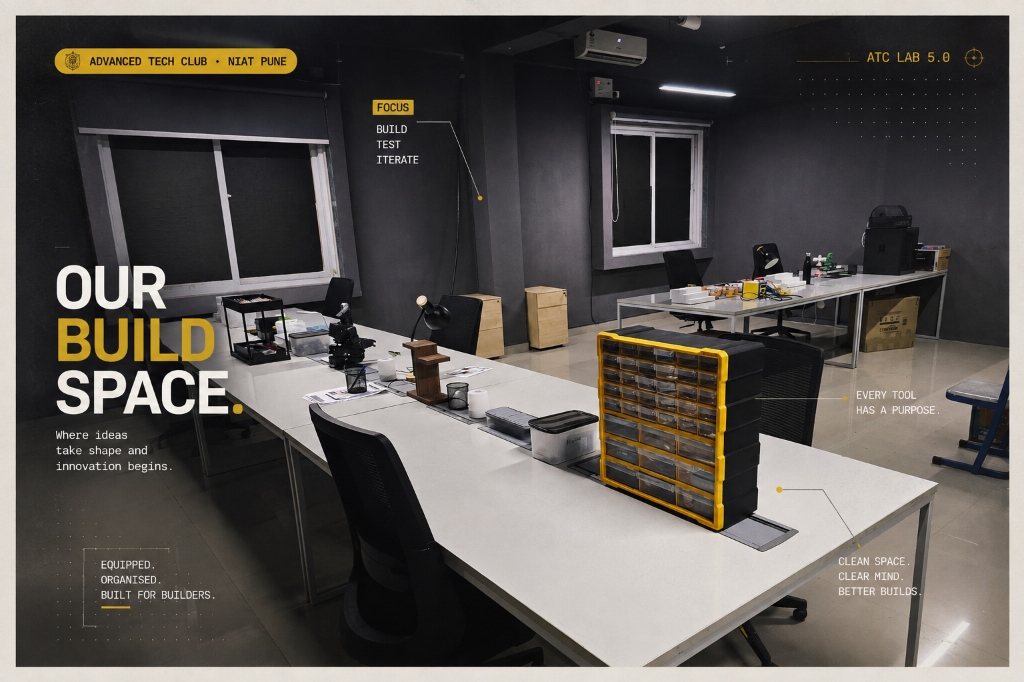
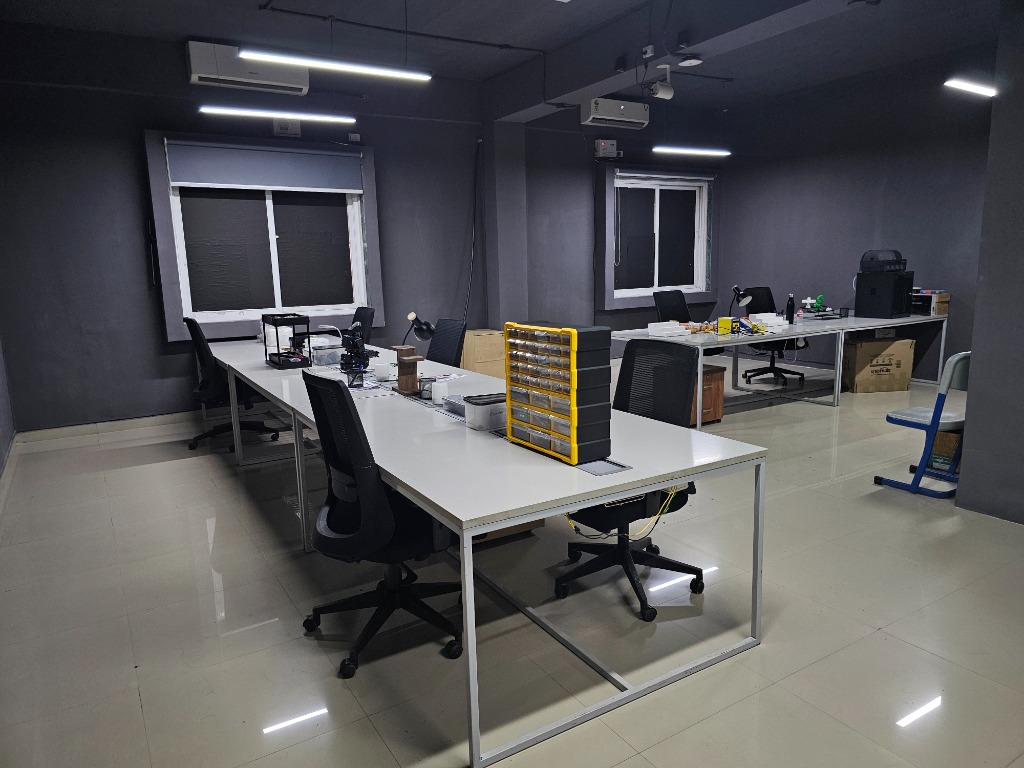
feat: make ATC 5.0 lab photo full background with theme-aligned content overlay

diff --git a/src/components/home/LabSection.tsx b/src/components/home/LabSection.tsx
@@ -1,137 +1,169 @@
 import React from 'react';
-import { ArrowUpRight, Cpu, Eye, Wifi, Wrench, Sparkles, MapPin, Maximize2 } from 'lucide-react';
+import { ArrowUpRight, Cpu, Eye, Wifi, Wrench, Sparkles, MapPin, CheckCircle2, Zap } from 'lucide-react';
 import { PlayfulButton } from '../ui/PlayfulButton';
-import { Link } from 'react-router-dom';
 
 export const LabSection: React.FC = () => {
   return (
-    <section className="relative bg-[#4834D4] py-20 text-white border-b-4 border-[#121316] overflow-hidden">
-      {/* Background Texture & Glows */}
-      <div className="absolute inset-0 bg-[radial-gradient(#ffffff1a_1px,transparent_1px)] [background-size:24px_24px] pointer-events-none" />
-      <div className="absolute top-0 right-0 w-96 h-96 bg-[#686de0]/30 rounded-full blur-3xl pointer-events-none" />
+    <section className="relative min-h-[640px] lg:min-h-[720px] text-white border-b-4 border-[#121316] overflow-hidden flex items-center">
+      {/* Full-bleed Background Image with Premium Multi-layer Overlays */}
+      <div className="absolute inset-0 z-0">
+        <img
+          src="/atc-lab-5.0.jpg"
+          alt="ATC Lab 5.0 Workspace Background"
+          className="w-full h-full object-cover object-center scale-105"
+        />
 
-      <div className="max-w-7xl mx-auto px-4 sm:px-6 lg:px-8 relative z-10">
-        <div className="grid lg:grid-cols-12 gap-10 lg:gap-12 items-center">
-          {/* Left Column: Heading, Status, Description & CTA */}
-          <div className="lg:col-span-5 space-y-6">
-            {/* Status Pill Badge */}
+        {/* Cinematic Gradient Overlays for High Legibility & Vibrant Theme Alignment */}
+        <div className="absolute inset-0 bg-gradient-to-r from-[#121316]/95 via-[#121316]/80 to-[#121316]/40" />
+        <div className="absolute inset-0 bg-gradient-to-t from-[#121316] via-transparent to-[#121316]/60" />
+        <div className="absolute inset-0 bg-[#301c80]/30 mix-blend-multiply" />
+        
+        {/* Playful Dot Grid Texture */}
+        <div className="absolute inset-0 bg-[radial-gradient(#ffffff18_1.5px,transparent_1.5px)] [background-size:24px_24px] pointer-events-none" />
+      </div>
+
+      <div className="max-w-7xl mx-auto px-4 sm:px-6 lg:px-8 py-20 sm:py-28 relative z-10 w-full">
+        <div className="grid lg:grid-cols-12 gap-10 lg:gap-14 items-center">
+          
+          {/* Left Column: Heading, Focus Statement & Actions */}
+          <div className="lg:col-span-6 space-y-6">
+            
+            {/* Top Pill Badge */}
             <div className="inline-flex items-center gap-2 px-4 py-1.5 rounded-full bg-[#FFE600] text-[#121316] border-3 border-[#121316] shadow-pop-sm font-mono font-black text-xs uppercase tracking-wider">
-              <span className="w-2 h-2 rounded-full bg-[#2ED573] animate-ping" />
-              PHYSICAL INNOVATION SPACE
+              <span className="w-2.5 h-2.5 rounded-full bg-[#2ED573] animate-ping" />
+              <span>ATC LAB 5.0 • NIAT PUNE</span>
             </div>
 
-            {/* Large Heading */}
+            {/* Bold Headline */}
             <div className="space-y-2">
-              <h2 className="text-4xl sm:text-6xl font-black tracking-tight text-white leading-tight">
-                ATC 5.0 LAB
+              <h2 className="text-4xl sm:text-6xl lg:text-7xl font-black tracking-tight text-white leading-[1.05]">
+                OUR BUILD
+                <br />
+                <span className="relative inline-block px-5 py-1 bg-[#FFE600] text-[#121316] rounded-3xl border-4 border-[#121316] shadow-pop rotate-[-1.5deg] mt-1">
+                  SPACE.
+                  <Sparkles className="w-7 h-7 text-[#FF4757] absolute -top-4 -right-4 animate-bounce" />
+                </span>
               </h2>
-              <p className="text-base sm:text-lg text-purple-100 font-medium leading-relaxed">
-                Our dedicated physical lab space at NIAT Pune — where student ideas take shape through Robotics, AI, Computer Vision, IoT, and rapid hardware prototyping.
+              
+              <p className="text-lg sm:text-2xl font-black text-[#FFE600] font-display pt-1">
+                Where ideas take shape and innovation begins.
+              </p>
+
+              <p className="text-sm sm:text-base text-gray-300 font-bold leading-relaxed max-w-xl">
+                An active, physical hardware sandbox at NIAT Pune designed for makers, coders, and engineers. From autonomous robotics and AI vision to custom PCB design and high-speed prototypes.
               </p>
             </div>
 
-            {/* Domain Badges */}
-            <div className="grid grid-cols-2 gap-3 pt-1">
-              <div className="p-3.5 rounded-2xl bg-white/10 border-2 border-white/20 backdrop-blur-sm space-y-1">
-                <div className="flex items-center gap-1.5 text-xs font-bold text-yellow-300">
-                  <Cpu className="w-4 h-4" /> Robotics & ROS
-                </div>
-                <p className="text-[11px] text-purple-200">Autonomous rovers & quadrupeds</p>
-              </div>
-
-              <div className="p-3.5 rounded-2xl bg-white/10 border-2 border-white/20 backdrop-blur-sm space-y-1">
-                <div className="flex items-center gap-1.5 text-xs font-bold text-sky-300">
-                  <Eye className="w-4 h-4" /> AI & Computer Vision
-                </div>
-                <p className="text-[11px] text-purple-200">Edge ML & Coral TPUs</p>
-              </div>
-
-              <div className="p-3.5 rounded-2xl bg-white/10 border-2 border-white/20 backdrop-blur-sm space-y-1">
-                <div className="flex items-center gap-1.5 text-xs font-bold text-emerald-300">
-                  <Wifi className="w-4 h-4" /> IoT & Embedded
-                </div>
-                <p className="text-[11px] text-purple-200">Custom PCB & Sensor telemetry</p>
-              </div>
-
-              <div className="p-3.5 rounded-2xl bg-white/10 border-2 border-white/20 backdrop-blur-sm space-y-1">
-                <div className="flex items-center gap-1.5 text-xs font-bold text-pink-300">
-                  <Wrench className="w-4 h-4" /> Rapid Prototyping
-                </div>
-                <p className="text-[11px] text-purple-200">3D printing & SMD soldering</p>
-              </div>
+            {/* Focus & Value Badges */}
+            <div className="flex flex-wrap items-center gap-2.5 pt-1">
+              <span className="px-3.5 py-1.5 rounded-xl bg-white/10 backdrop-blur-md border border-white/20 font-mono text-xs font-black text-yellow-300 flex items-center gap-1.5">
+                <Zap className="w-3.5 h-3.5 fill-yellow-300" />
+                FOCUS: BUILD • TEST • ITERATE
+              </span>
+              <span className="px-3.5 py-1.5 rounded-xl bg-white/10 backdrop-blur-md border border-white/20 font-mono text-xs font-bold text-white flex items-center gap-1.5">
+                <CheckCircle2 className="w-3.5 h-3.5 text-[#2ED573]" />
+                EQUIPPED & ORGANISED
+              </span>
             </div>
 
-            {/* CTA Button: Explore the Lab ↗ */}
-            <div className="pt-2 flex flex-wrap items-center gap-4">
+            {/* CTA Buttons */}
+            <div className="pt-3 flex flex-wrap items-center gap-4">
               <PlayfulButton
                 to="/lab"
                 variant="primary"
                 size="lg"
                 icon={<ArrowUpRight className="w-5 h-5 text-[#121316] stroke-[3]" />}
               >
-                Explore the Lab
+                Explore Lab 5.0
               </PlayfulButton>
 
-              <span className="text-xs font-mono text-purple-200 flex items-center gap-1.5 font-bold">
+              <div className="flex items-center gap-2 px-4 py-2 rounded-2xl bg-black/40 backdrop-blur-sm border-2 border-white/15 text-xs font-mono font-bold text-purple-200">
                 <MapPin className="w-4 h-4 text-[#FFE600]" />
-                NIAT Campus, Lab 5.0
-              </span>
+                <span>NIAT Campus, Lab 5.0</span>
+              </div>
             </div>
+
           </div>
 
-          {/* Right Column: Real ATC 5.0 Lab Build Space Showcase */}
-          <div className="lg:col-span-7">
-            <Link
-              to="/lab"
-              className="block group relative rounded-[32px] sm:rounded-[36px] bg-[#121316] border-4 border-[#121316] shadow-pop-2xl overflow-hidden hover:scale-[1.01] transition-all duration-300 cursor-pointer"
-            >
-              {/* Top Status Bar */}
-              <div className="flex items-center justify-between px-5 sm:px-6 py-3.5 bg-[#1C1635] border-b-2 border-white/10 text-xs font-mono">
-                <div className="flex items-center gap-2">
-                  <span className="w-2.5 h-2.5 rounded-full bg-[#2ED573] animate-ping" />
-                  <span className="font-bold text-[#FFE600] uppercase tracking-wider">
-                    OUR BUILD SPACE • NIAT PUNE
-                  </span>
+          {/* Right Column: Lab Capabilities Grid */}
+          <div className="lg:col-span-6 space-y-4">
+            
+            {/* 4-Bento Domain Matrix */}
+            <div className="grid sm:grid-cols-2 gap-4">
+              
+              {/* Robotics */}
+              <div className="p-5 rounded-3xl bg-[#121316]/80 backdrop-blur-md border-3 border-[#121316] hover:border-[#FFE600] shadow-pop transition-all hover:scale-[1.02] space-y-2 group">
+                <div className="w-10 h-10 rounded-2xl bg-[#FFE600] border-2 border-[#121316] shadow-pop-sm flex items-center justify-center text-[#121316]">
+                  <Cpu className="w-5 h-5" />
                 </div>
-                <span className="text-purple-200 bg-white/10 px-3 py-1 rounded-full border border-white/10 font-bold text-[11px]">
-                  ATC LAB 5.0
+                <h3 className="text-base font-black text-white group-hover:text-[#FFE600] transition-colors">
+                  Robotics & ROS 2
+                </h3>
+                <p className="text-xs font-bold text-gray-300">
+                  Autonomous rovers, quadruped kinematics, robotic arms & sensor fusion.
+                </p>
+              </div>
+
+              {/* AI & Computer Vision */}
+              <div className="p-5 rounded-3xl bg-[#121316]/80 backdrop-blur-md border-3 border-[#121316] hover:border-[#00D2D3] shadow-pop transition-all hover:scale-[1.02] space-y-2 group">
+                <div className="w-10 h-10 rounded-2xl bg-[#00D2D3] border-2 border-[#121316] shadow-pop-sm flex items-center justify-center text-[#121316]">
+                  <Eye className="w-5 h-5" />
+                </div>
+                <h3 className="text-base font-black text-white group-hover:text-[#00D2D3] transition-colors">
+                  AI & Computer Vision
+                </h3>
+                <p className="text-xs font-bold text-gray-300">
+                  Edge ML on Coral TPUs, NVIDIA Jetson pipelines & real-time visual tracking.
+                </p>
+              </div>
+
+              {/* IoT & Embedded */}
+              <div className="p-5 rounded-3xl bg-[#121316]/80 backdrop-blur-md border-3 border-[#121316] hover:border-[#2ED573] shadow-pop transition-all hover:scale-[1.02] space-y-2 group">
+                <div className="w-10 h-10 rounded-2xl bg-[#2ED573] border-2 border-[#121316] shadow-pop-sm flex items-center justify-center text-[#121316]">
+                  <Wifi className="w-5 h-5" />
+                </div>
+                <h3 className="text-base font-black text-white group-hover:text-[#2ED573] transition-colors">
+                  IoT & Embedded
+                </h3>
+                <p className="text-xs font-bold text-gray-300">
+                  ESP32 firmware, custom PCB milling & wireless MQTT telemetry clusters.
+                </p>
+              </div>
+
+              {/* Rapid Prototyping */}
+              <div className="p-5 rounded-3xl bg-[#121316]/80 backdrop-blur-md border-3 border-[#121316] hover:border-[#FF6B6B] shadow-pop transition-all hover:scale-[1.02] space-y-2 group">
+                <div className="w-10 h-10 rounded-2xl bg-[#FF6B6B] border-2 border-[#121316] shadow-pop-sm flex items-center justify-center text-white">
+                  <Wrench className="w-5 h-5" />
+                </div>
+                <h3 className="text-base font-black text-white group-hover:text-[#FF6B6B] transition-colors">
+                  Rapid Prototyping
+                </h3>
+                <p className="text-xs font-bold text-gray-300">
+                  Precision 3D printing, SMD rework station, power benches & laser cutting.
+                </p>
+              </div>
+
+            </div>
+
+            {/* Bottom Builder Philosophy Banner */}
+            <div className="p-4 sm:p-5 rounded-3xl bg-[#121316]/90 backdrop-blur-md border-3 border-white/20 flex flex-col sm:flex-row sm:items-center justify-between gap-3 text-xs font-mono">
+              <div className="space-y-0.5">
+                <span className="text-yellow-300 font-black tracking-wider uppercase block">
+                  CLEAN SPACE. CLEAR MIND. BETTER BUILDS.
+                </span>
+                <span className="text-gray-400 font-bold">
+                  Every tool has a purpose in ATC Lab 5.0.
                 </span>
               </div>
 
-              {/* Real Lab Photo Container */}
-              <div className="relative overflow-hidden bg-black/40 aspect-[16/10] sm:aspect-[16/10.5]">
-                <img
-                  src="/atc-lab-5.0.jpg"
-                  alt="ATC Lab 5.0 Physical Build Space - NIAT Pune"
-                  className="w-full h-full object-cover group-hover:scale-105 transition-transform duration-700"
-                />
+              <span className="px-3 py-1 rounded-xl bg-white/10 text-emerald-400 border border-emerald-400/40 font-bold self-start sm:self-auto flex items-center gap-1.5">
+                <span className="w-2 h-2 rounded-full bg-emerald-400 animate-pulse" />
+                <span>BUILDING 24/7</span>
+              </span>
+            </div>
 
-                {/* Subtle Hover Action Overlay */}
-                <div className="absolute inset-0 bg-gradient-to-t from-black/60 via-transparent to-transparent opacity-0 group-hover:opacity-100 transition-opacity flex items-end justify-between p-6">
-                  <span className="px-4 py-2 rounded-full bg-[#FFE600] text-[#121316] font-mono text-xs font-black border-2 border-[#121316] shadow-pop flex items-center gap-2">
-                    <Maximize2 className="w-4 h-4 stroke-[2.5]" />
-                    <span>View Lab Details ↗</span>
-                  </span>
-                  <span className="text-xs font-mono text-white/90 font-bold hidden sm:inline-block">
-                    Built for Builders • Equipped & Organised
-                  </span>
-                </div>
-              </div>
-
-              {/* Bottom Metadata & Specs Bar */}
-              <div className="px-5 sm:px-6 py-3 bg-[#1C1635] border-t-2 border-white/10 flex flex-wrap items-center justify-between gap-2 text-xs font-mono">
-                <div className="flex items-center gap-2">
-                  <span className="text-purple-300 font-bold">FOCUS:</span>
-                  <span className="text-white font-bold">BUILD • TEST • ITERATE</span>
-                </div>
-                <div className="flex items-center gap-2 text-[11px] text-purple-200">
-                  <span className="px-2 py-0.5 rounded bg-white/10 border border-white/10 font-bold text-[#2ED573]">
-                    ● ACTIVE & EQUIPPED
-                  </span>
-                </div>
-              </div>
-            </Link>
           </div>
+
         </div>
       </div>
     </section>
